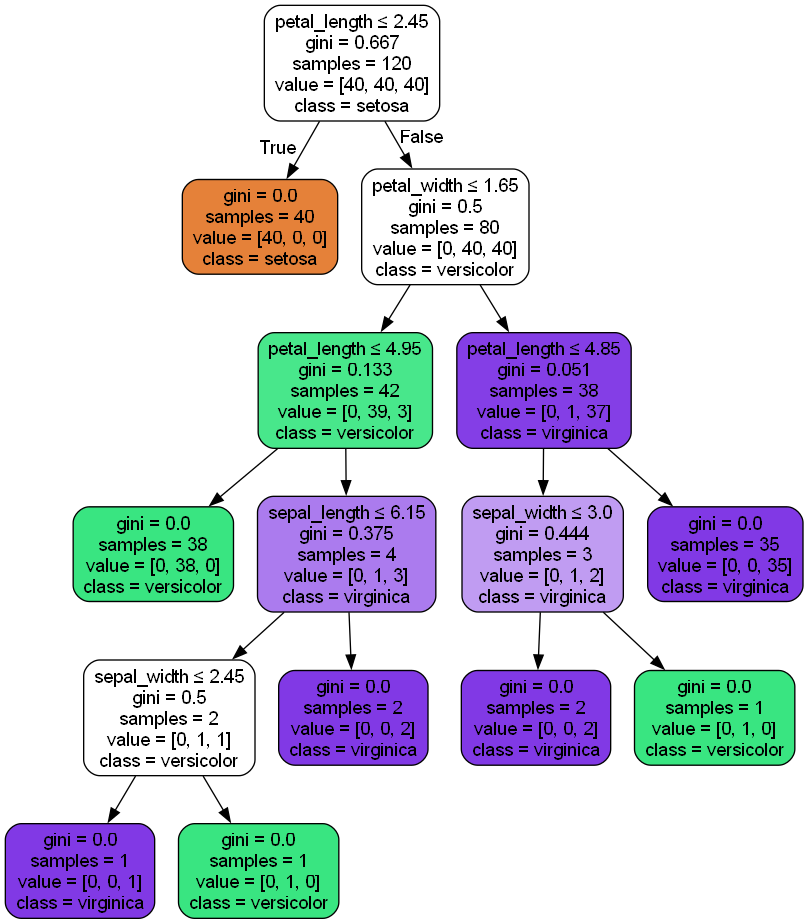
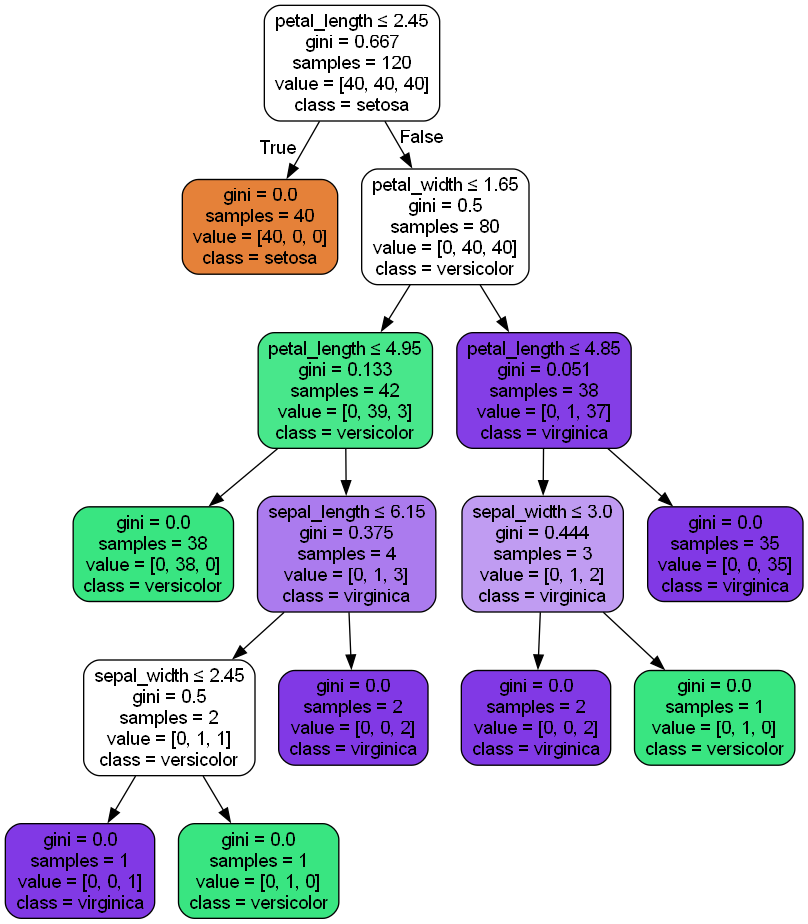
Add Windows Graphviz auto-install and PATH handling
Detect and ensure Graphviz `dot` is available on Windows at program start. Adds detection/refresh logic in main.py (refresh_process_path, find_dot_candidates, get_dot_path, install_graphviz, ensure_graphviz_available) and calls it from main(). Adds a PowerShell installer script scripts/install_graphviz.ps1 that installs Graphviz via winget/choco and prepends the Graphviz\bin to the chosen PATH scope. README updated with usage and verification steps. .gitignore updated to ignore outputs and some local docs/backups. outputs/decision_tree.png was updated (regenerated). These changes let the app automatically install and expose `dot` on Windows when missing.

diff --git a/main.py b/main.py
@@ -1,4 +1,7 @@
 from pathlib import Path
+import os
+import shutil
+import subprocess
 
 import graphviz
 import matplotlib.pyplot as plt
@@ -13,6 +16,7 @@ from sklearn.tree import DecisionTreeClassifier, export_graphviz
 BASE_DIR = Path(__file__).resolve().parent
 OUTPUT_DIR = BASE_DIR / "outputs"
 CSV_PATH = BASE_DIR / "Iris.csv"
+GRAPHVIZ_INSTALL_SCRIPT = BASE_DIR / "scripts" / "install_graphviz.ps1"
 
 FEATURE_NAMES = [
     "sepal_length",
@@ -24,6 +28,129 @@ FEATURE_NAMES = [
 
 def ensure_output_dir():
     OUTPUT_DIR.mkdir(exist_ok=True)
+
+
+def refresh_process_path():
+    if os.name != "nt":
+        return
+    try:
+        completed = subprocess.run(
+            [
+                "powershell.exe",
+                "-NoProfile",
+                "-Command",
+                "[Environment]::GetEnvironmentVariable('Path','Machine');"
+                "[Environment]::GetEnvironmentVariable('Path','User')",
+            ],
+            check=True,
+            capture_output=True,
+            text=True,
+            encoding="utf-8",
+            errors="ignore",
+        )
+        refreshed_entries = [
+            entry
+            for line in completed.stdout.splitlines()
+            for entry in line.split(";")
+            if entry.strip()
+        ]
+        current_entries = [entry for entry in os.environ.get("PATH", "").split(os.pathsep) if entry]
+        common_graphviz_bins = [
+            r"C:\Program Files\Graphviz\bin",
+            r"C:\Program Files (x86)\Graphviz\bin",
+            str(Path(os.environ.get("LOCALAPPDATA", "")) / "Programs" / "Graphviz" / "bin"),
+            r"E:\Graphviz\bin",
+        ]
+        merged = []
+        seen = set()
+        for entry in common_graphviz_bins + refreshed_entries + current_entries:
+            normalized = entry.rstrip("\\/")
+            normalized_key = normalized.lower()
+            if normalized and normalized_key not in seen:
+                merged.append(normalized)
+                seen.add(normalized_key)
+        os.environ["PATH"] = os.pathsep.join(merged)
+    except Exception:
+        return
+
+
+def find_dot_candidates():
+    candidates = []
+    path_dot = shutil.which("dot")
+    if path_dot:
+        candidates.append(Path(path_dot))
+    if os.name == "nt":
+        candidates.extend(
+            [
+                Path(r"C:\Program Files\Graphviz\bin\dot.exe"),
+                Path(r"C:\Program Files (x86)\Graphviz\bin\dot.exe"),
+                Path(os.environ.get("LOCALAPPDATA", "")) / "Programs" / "Graphviz" / "bin" / "dot.exe",
+                Path(r"E:\Graphviz\bin\dot.exe"),
+                Path(r"C:\ProgramData\chocolatey\bin\dot.exe"),
+            ]
+        )
+    return candidates
+
+
+def get_dot_path():
+    refresh_process_path()
+    for dot_path in find_dot_candidates():
+        if not dot_path.exists():
+            continue
+        try:
+            subprocess.run(
+                [str(dot_path), "-V"],
+                check=True,
+                capture_output=True,
+                text=True,
+                encoding="utf-8",
+                errors="ignore",
+            )
+            graphviz_bin = str(dot_path.parent)
+            if graphviz_bin not in os.environ.get("PATH", ""):
+                os.environ["PATH"] = graphviz_bin + os.pathsep + os.environ.get("PATH", "")
+            return str(dot_path)
+        except Exception:
+            continue
+    return None
+
+
+def install_graphviz():
+    if os.name != "nt":
+        raise RuntimeError("未检测到 Graphviz，请先在本机安装 Graphviz 并确保 dot 命令可用。")
+    if not GRAPHVIZ_INSTALL_SCRIPT.exists():
+        raise FileNotFoundError(f"未找到 Graphviz 安装脚本: {GRAPHVIZ_INSTALL_SCRIPT}")
+
+    print("未检测到 Graphviz，正在自动安装并添加到环境变量...")
+    completed = subprocess.run(
+        [
+            "powershell.exe",
+            "-NoProfile",
+            "-ExecutionPolicy",
+            "Bypass",
+            "-File",
+            str(GRAPHVIZ_INSTALL_SCRIPT),
+            "-PathScope",
+            "User",
+        ],
+        cwd=BASE_DIR,
+        text=True,
+    )
+    if completed.returncode != 0:
+        raise RuntimeError(f"Graphviz 自动安装失败，退出码: {completed.returncode}")
+
+
+def ensure_graphviz_available():
+    dot_path = get_dot_path()
+    if dot_path:
+        print(f"已检测到 Graphviz: {dot_path}")
+        return
+
+    install_graphviz()
+    dot_path = get_dot_path()
+    if not dot_path:
+        raise RuntimeError("Graphviz 已尝试安装，但当前程序仍无法找到 dot 命令。")
+    print(f"Graphviz 安装并检测成功: {dot_path}")
 
 
 def load_and_export_data():
@@ -239,6 +366,7 @@ def show_menu():
 
 def main():
     try:
+        ensure_graphviz_available()
         iris, df, models, results, x_test, y_test = prepare_system()
         while True:
             show_menu()

diff --git a/README.md b/README.md
@@ -25,7 +25,20 @@
 - matplotlib
 - graphviz
 
-本机还需要安装 Graphviz 程序，并确保 `dot` 命令可用。
+主程序启动时会先检测本机是否存在 Graphviz 的 `dot` 命令；如果没有检测到，会自动调用 `scripts/install_graphviz.ps1` 安装 Graphviz，并添加到用户环境变量 `PATH`。
+
+如需单独安装 Graphviz，也可以运行：
+
+```powershell
+powershell -ExecutionPolicy Bypass -File .\scripts\install_graphviz.ps1 -PathScope User
+```
+
+验证：
+
+```powershell
+where.exe dot
+dot -V
+```
 
 ## 安装依赖
 
@@ -55,3 +68,4 @@ python main.py
 - `outputs/decision_tree_confusion_matrix.png`
 
 `iris.data` 是项目中的原始参考数据文件，正式程序按题目约束使用 `sklearn` 内置数据集。
+